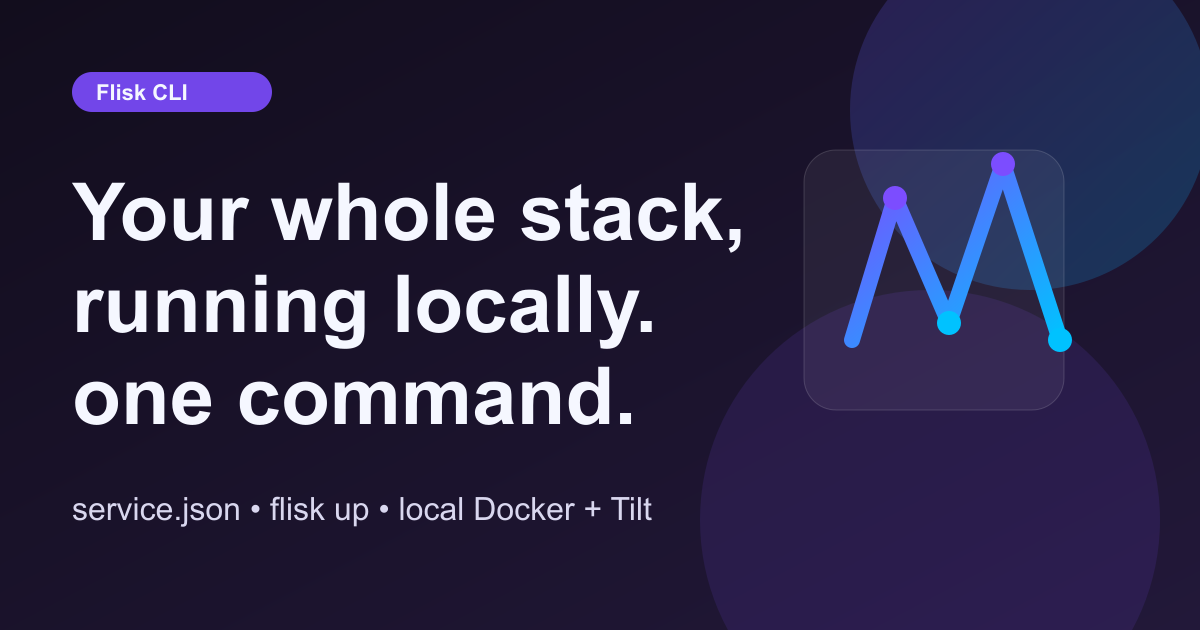
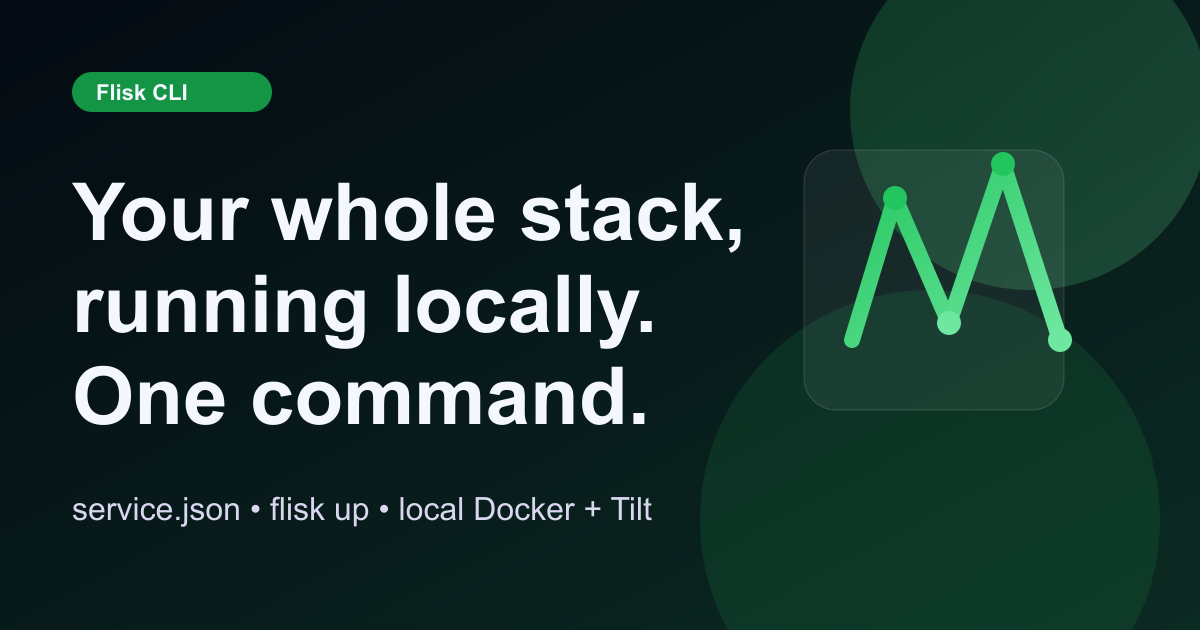
Recolor social card and theme-color to the Flisk green
The large link preview was purple; switch it to the green palette from
the header image, and match the theme-color meta tag.

diff --git a/_layouts/default.html b/_layouts/default.html
@@ -111,7 +111,7 @@
     <meta name="twitter:image" content="{{ social_image_url }}" />
   {% endif %}
   
-  <meta name="theme-color" content="#7c4dff" />
+  <meta name="theme-color" content="#22C55E" />
 </head>
 <body>
   <a href="#main-content" class="skip-link">Skip to main content</a>
